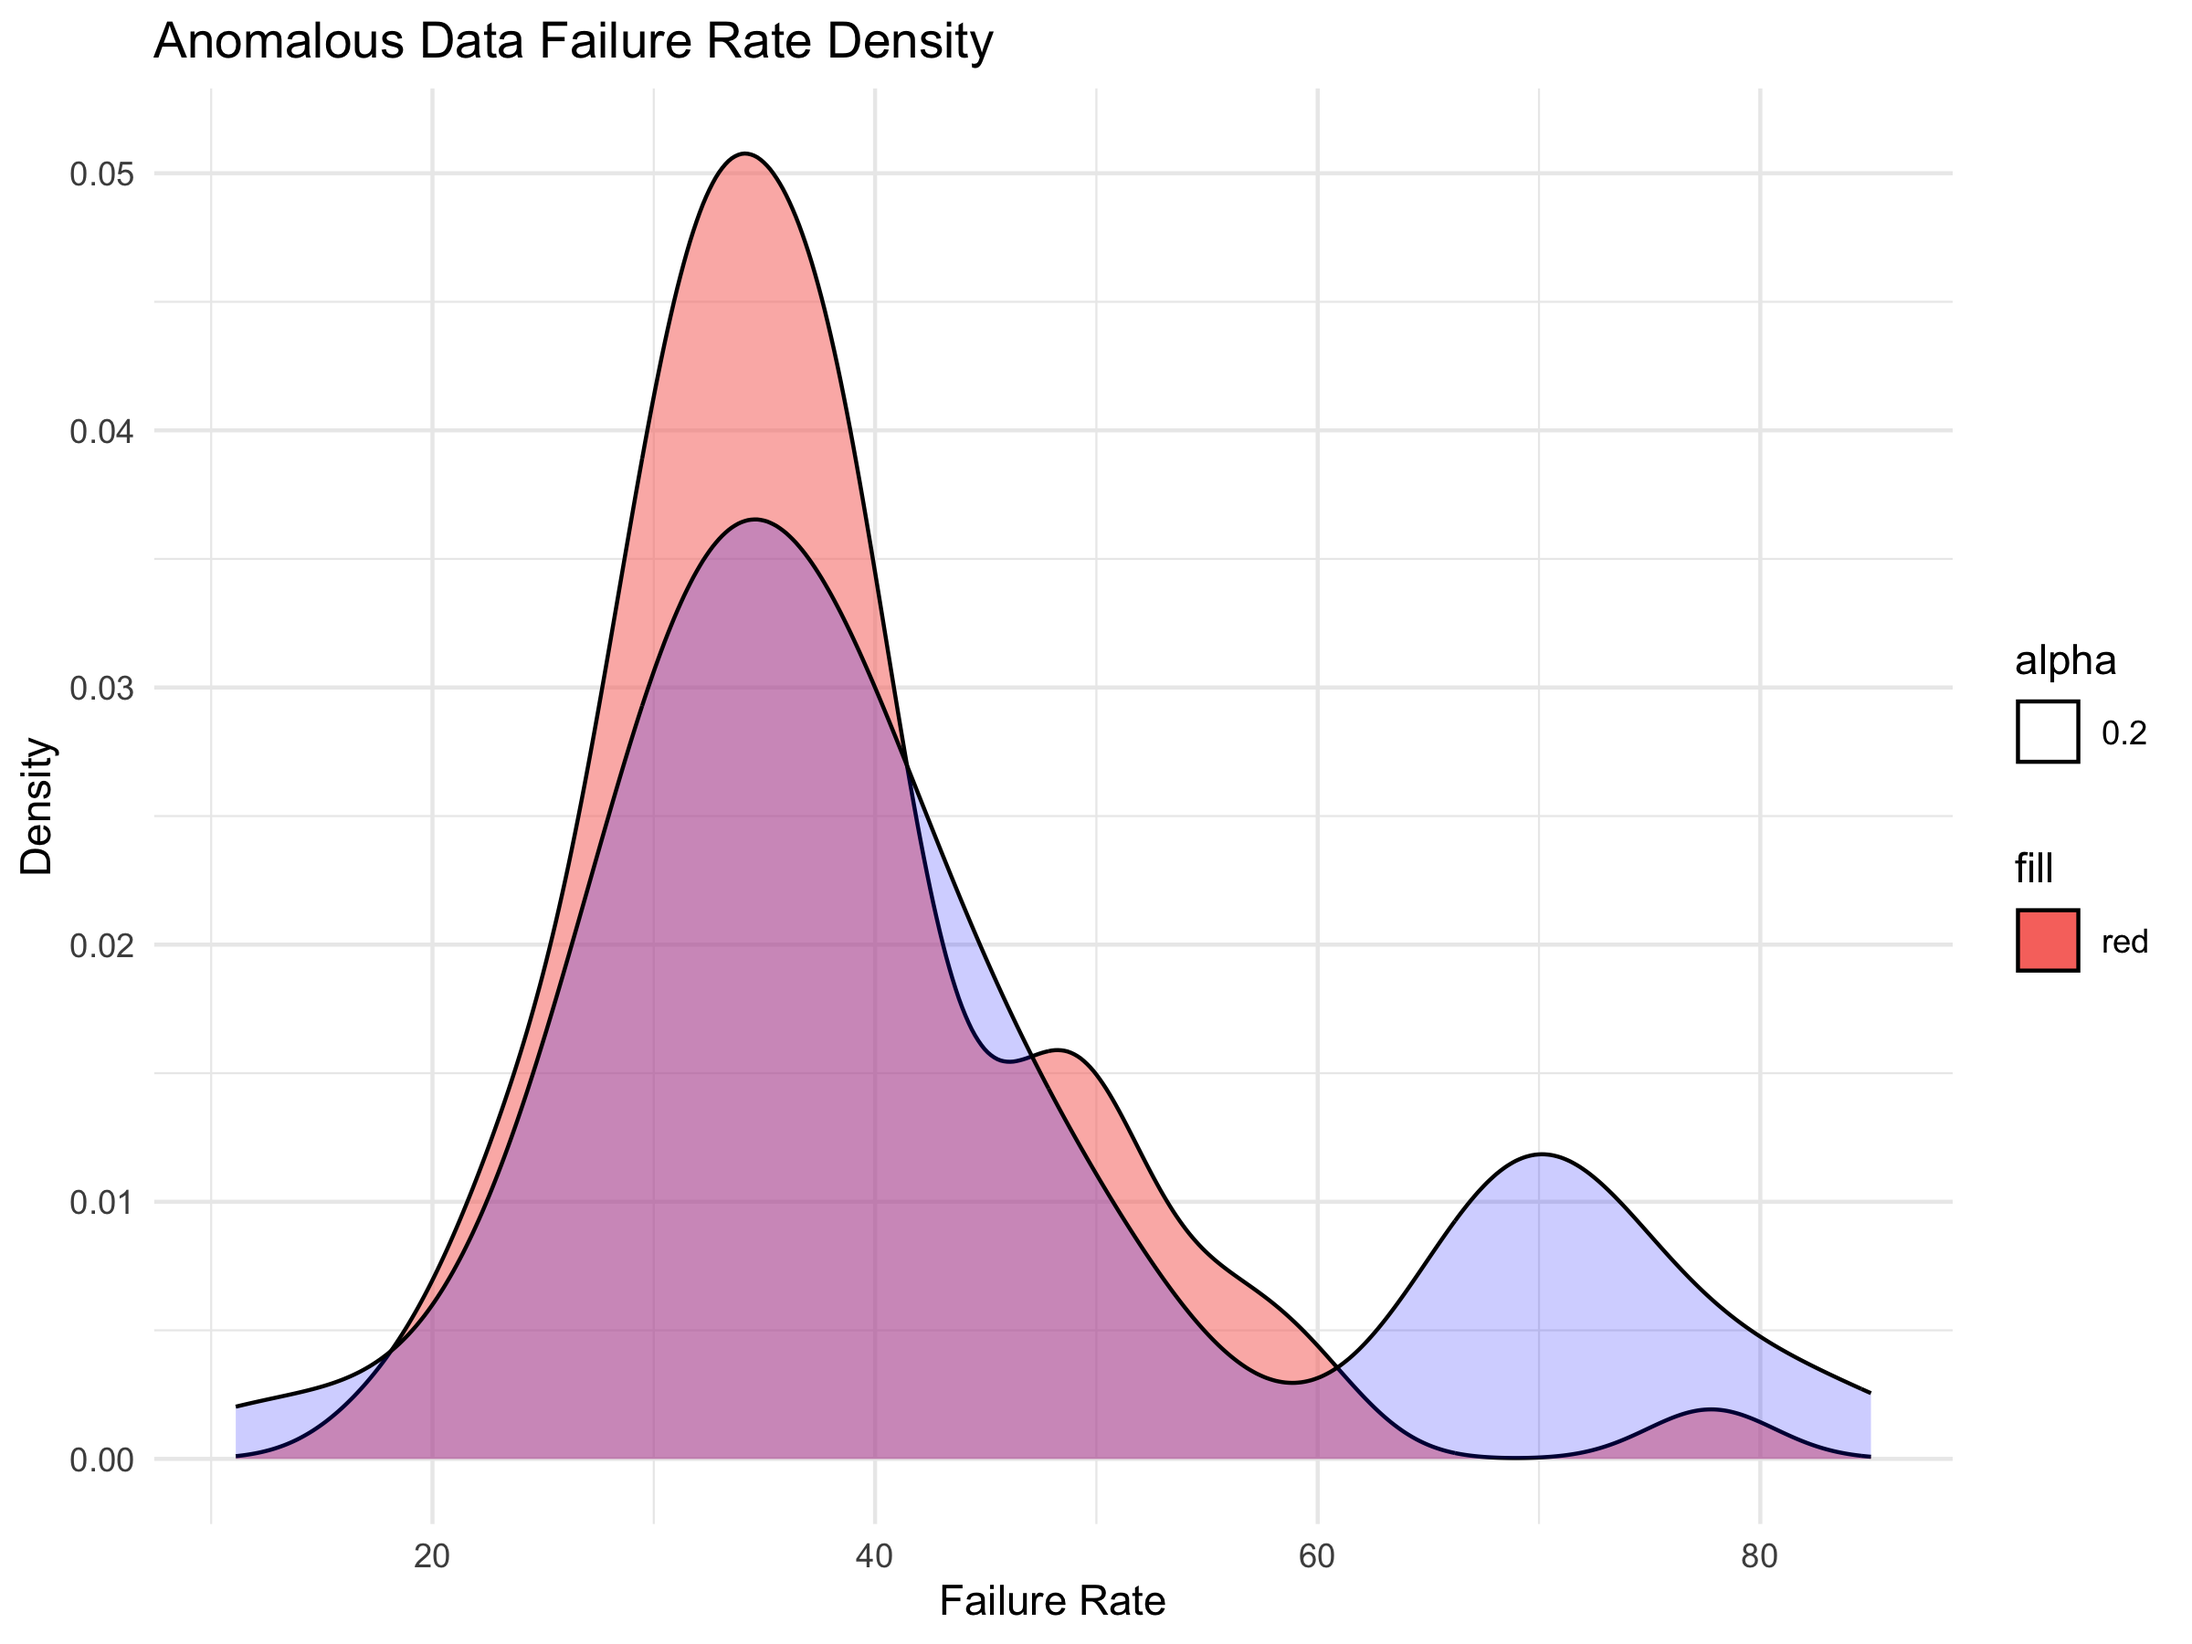
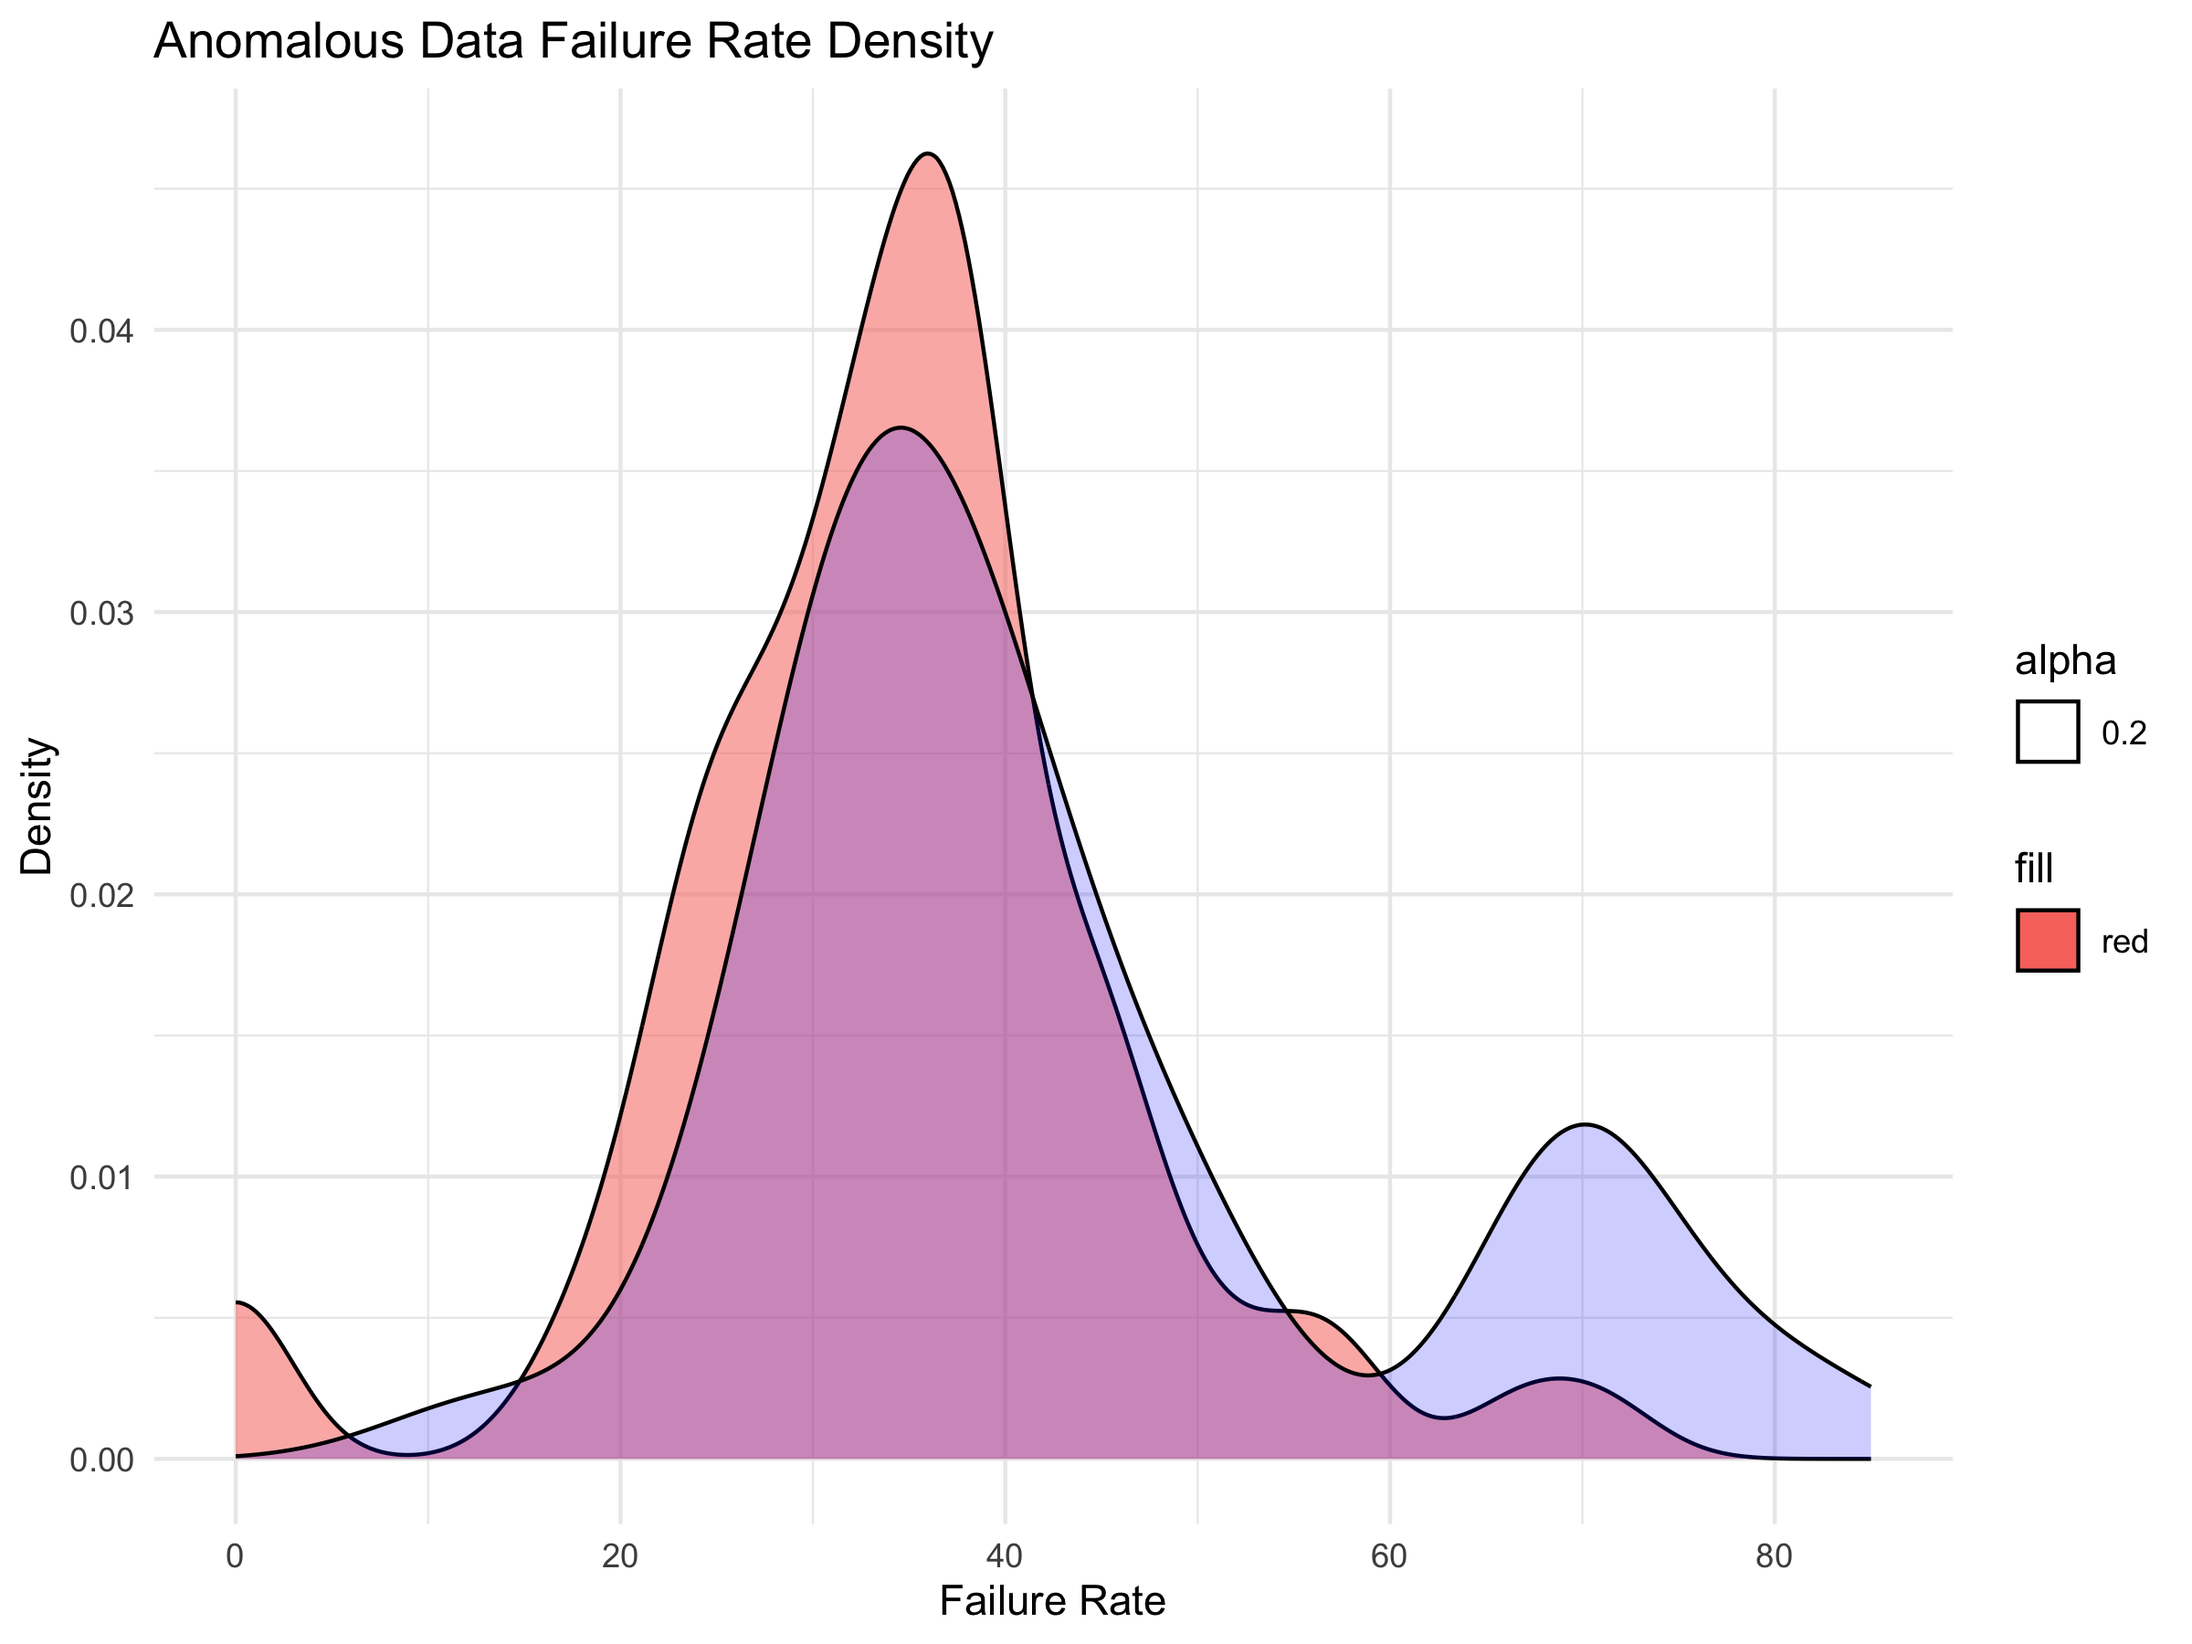
s

diff --git a/Anamoly_Detection/ReadMe.md b/Anamoly_Detection/ReadMe.md
@@ -725,13 +725,13 @@ compliment_sample_sizes <- t
 (sum(compliment_sample_sizes[,2]))
 ```
 
-    ## [1] 13782
+    ## [1] 11753
 
 ``` r
 cat("totall transactions in sample of observations from normal data of equal size to number of anamoly observations.",sum(compliment_sample_sizes[,2]))
 ```
 
-    ## totall transactions in sample of observations from normal data of equal size to number of anamoly observations. 13782
+    ## totall transactions in sample of observations from normal data of equal size to number of anamoly observations. 11753
 
 ``` r
 hours <- seq(1, 72, 1)
@@ -766,7 +766,7 @@ ggplot(data = long, aes(x = hours, y = value, group = percentage_failure, color 
 cat("totall transactions in sample of observations from normal data of equal size to number of anamoly observations.",sum(compliment_sample_sizes[,2]))
 ```
 
-    ## totall transactions in sample of observations from normal data of equal size to number of anamoly observations. 13782
+    ## totall transactions in sample of observations from normal data of equal size to number of anamoly observations. 11753
 
 To make a fair comparison of the anomalous data and normal data before
 the anomaly event, the blue line is the failure rate of the normal data
@@ -840,11 +840,13 @@ ok what if for each payment method we made a plot of a curve for each
 payment gate way that somehow visualized the combination of transaction
 volume and failure rate
 
-``` html
-<div>
-  <a href="https://jacob-j-richards.shinyapps.io/shiny/" target="_blank">Click here to use the Shiny App</a>
-</div>
-```
+\<div\>
+
+\<a
+href=“[https://jacob-j-richards.shinyapps.io/shiny/”](https://jacob-j-richards.shinyapps.io/shiny/%22)
+target=”\_blank”\>Click here to use the Shiny App\</a\>
+
+\</div\>
 
 ``` r
 paytm_subset <- data[
